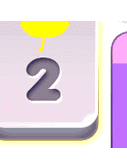
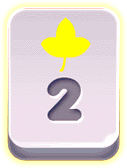
完善新版plist分解

diff --git a/unpackplistNew.py b/unpackplistNew.py
@@ -2,7 +2,6 @@
 import os,sys
 from xml.etree import ElementTree
 from PIL import Image
-#C:\Users\HP\Desktop\unpackerPlist\unpack-plist\number.plist
 
 
 def get_plist_data(dict):
@@ -10,6 +9,8 @@ def get_plist_data(dict):
      for index,item in enumerate(dict):
          if item.tag == "key":
              if dict[index+1].tag == "string":
+                 data[item.text] = dict[index + 1].text
+             if dict[index].text == "offset":
                  data[item.text] = dict[index + 1].text
              if dict[index].text == "rotated":
                  data[item.text] = dict[index+1].tag
@@ -24,74 +25,43 @@ def run(file_plist,file_png):
     # dom解析plist文件信息
     dict = ElementTree.fromstring(open(file_plist, "r").read())
     plistInfo = get_plist_data(dict[0])
-    print plistInfo
-
     to_list = lambda x: x.replace('{', '').replace('}', '').split(',')
-
     for k, v in plistInfo['frames'].items():
-        if v.has_key('textureRect'):
-            rectlist = to_list(v['textureRect'])
-        elif v.has_key('frame'):
+        if v.has_key('frame'):
             rectlist = to_list(v['frame'])
+        if v['rotated'] == "true":
+            width = int(rectlist[3])
+            height = int(rectlist[2])
+        else:
+            width = int(rectlist[2])
+            height = int(rectlist[3])
 
-        width = int(rectlist[2])
-        height = int(rectlist[3])
-        # if v.has_key('rotated'):
-        #     width = int(rectlist[3] if v['rotated'] else rectlist[2])
-        #     height = int(rectlist[2] if v['rotated'] else rectlist[3])
-        # else:
-        #     width = int(rectlist[2])
-        #     height = int(rectlist[3])
-        box = (
-            int(rectlist[0]),
-            int(rectlist[1]),
-            int(rectlist[0]) + width,
-            int(rectlist[1]) + height,
-        )
-        print rectlist
-        print box
-        print width
-        print height
-        print "================="
-        # print v
-        if v.has_key('spriteSize'):
-            spriteSize = v['spriteSize']
-        elif v.has_key('sourceSize'):
+        if v.has_key('offset'):
+            offset = to_list(v['offset'])
+
+        if v.has_key('sourceSize'):
             spriteSize = v['sourceSize']
 
         sizelist = [int(x) for x in to_list(spriteSize)]
-        # print sizelist
+        box = (
+            int(rectlist[0]) + int(offset[0]),
+            int(rectlist[1]) + int(offset[1]),
+            int(rectlist[0]) + width,
+            int(rectlist[1]) + height,
+        )
         rect_on_big = png_image.crop(box)
 
         if v['rotated'] == "true":
-            print "fanzhuan---"
-            rect_on_big = rect_on_big.rotate(90)
+            rect_on_big = rect_on_big.transpose(Image.ROTATE_90)
 
         result_image = Image.new('RGBA', sizelist, (0, 0, 0, 0))
+        result_image.paste(rect_on_big, (0,0))
 
-        if (v.has_key('textureRotated') and v['textureRotated']) or (v.has_key('rotated') and v['rotated']):
-            result_box = (
-                (sizelist[0] - height) / 2,
-                (sizelist[1] - width) / 2,
-                (sizelist[0] + height) / 2,
-                (sizelist[1] + width) / 2
-            )
-        else:
-            result_box = (
-                (sizelist[0] - width) / 2,
-                (sizelist[1] - height) / 2,
-                (sizelist[0] + width) / 2,
-                (sizelist[1] + height) / 2
-            )
-        print result_box
-        # result_image.paste(rect_on_big, result_box, mask=0)
-        result_image.paste(rect_on_big)
-
+        outfile = save_path + os.sep + k
         if not os.path.isdir(save_path):
             os.makedirs(save_path)
-        outfile = save_path + "\\" + k
-        print outfile
         result_image.save(outfile)
+        print outfile
 
 
 def listdir(path,list_name):

diff --git a/unpackplist.py b/unpackplist.py
@@ -80,7 +80,7 @@ def UnpackPngPlist(plist_fileName, png_fileName):
         # result_image.paste(rect_on_big, result_box, mask=0)
         result_image.paste(rect_on_big)
 
-        # 老版可能存在多级路径
+        #多级路径
         pathList = k.split("/")
         # print list
         path = ""
